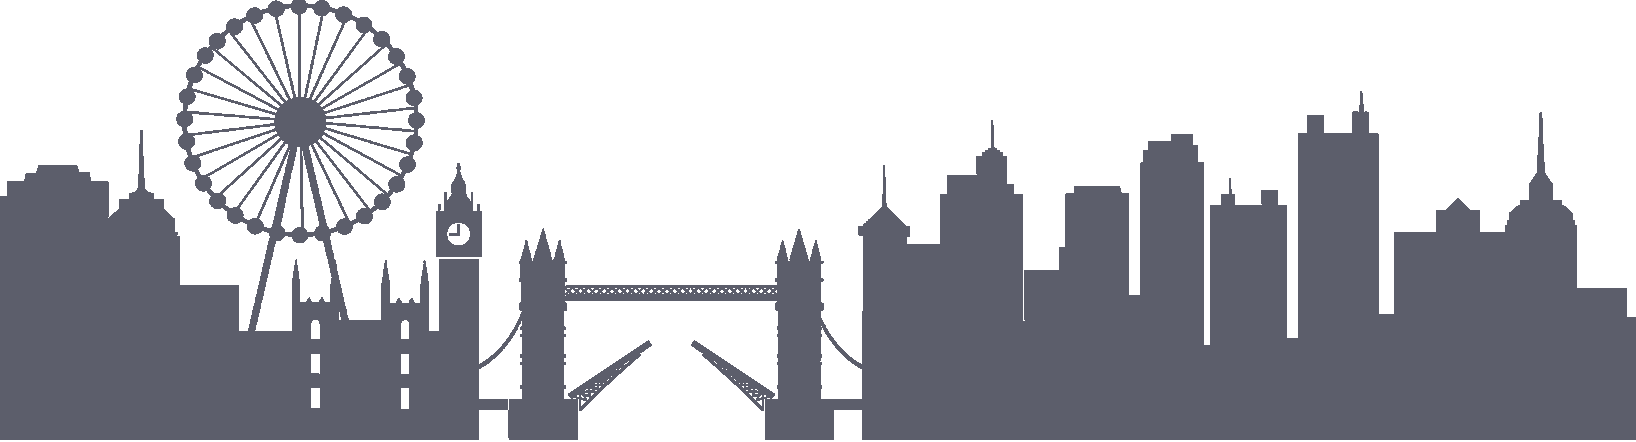
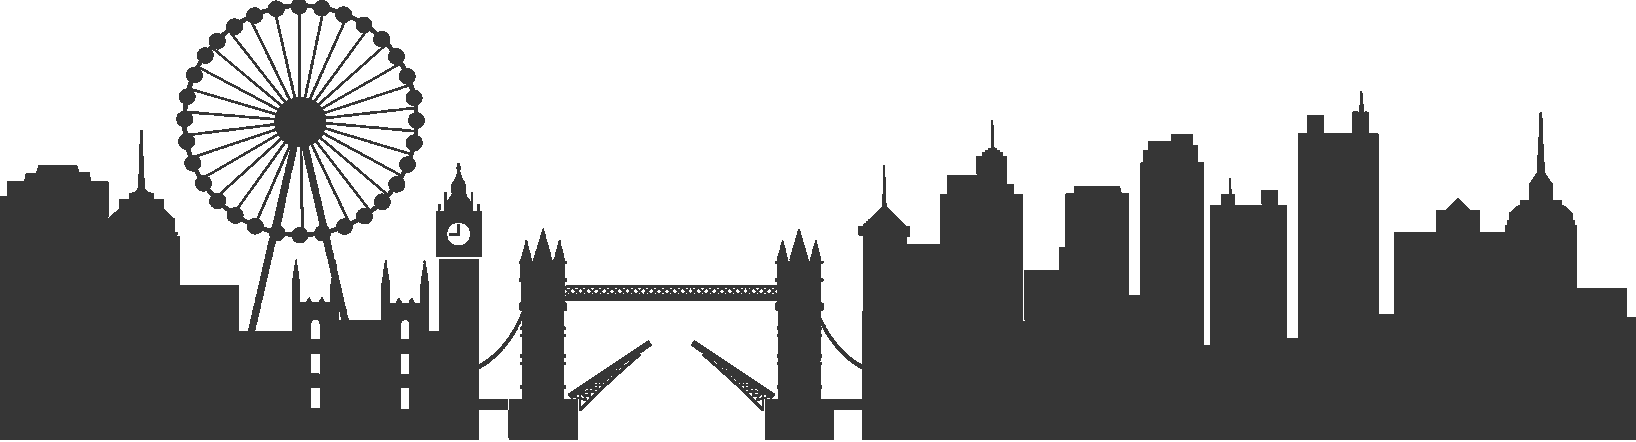
Added new skyline for the about me page

diff --git a/index.html b/index.html
@@ -25,7 +25,7 @@
     <p id="sweetText">Software Development, Web Design and Web Development</p>
 
 <!--City silhouette at footer of the page-->
-    <img id="city" src="Images/Cities/London-grey.png">
+    <img id="city" src="Images/Cities/London.png">
 </div>
 </body>
 </html>
